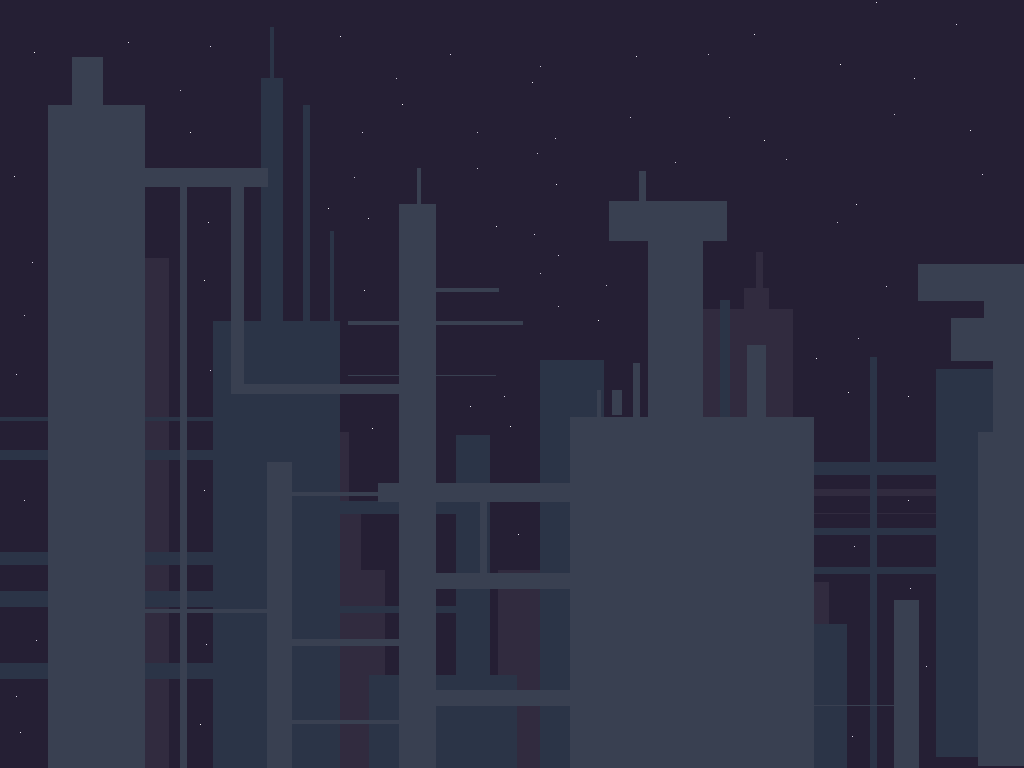
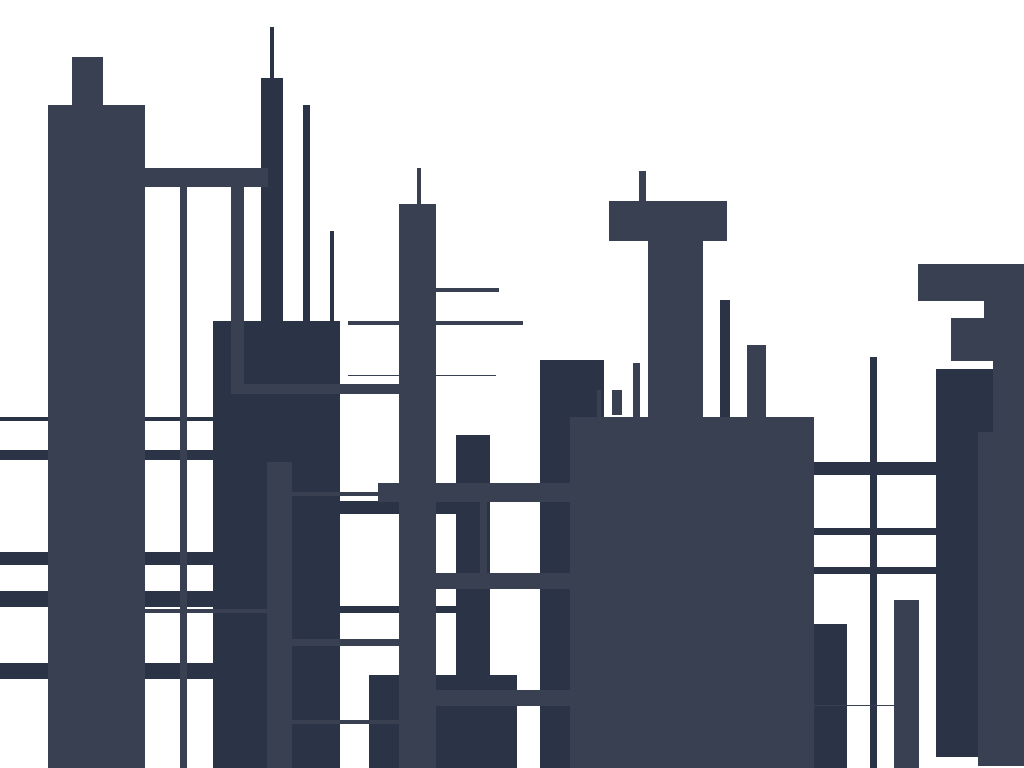
feat: create background system to control background layers and cameras
Context:
- The game can show a background image, but it is fixed and there is not support for parallax effect.

Changes:
- Create BackgroundSystem class to control logic envolving independent background layers

Notes:
- This feature was more of a preparation for implementing the background parallax effect
- I decided to move in this direction instead of focusing on animations for now.
  After implementing the parallax effect I'll return to work on animations

Next:
- Add parallax effect between backgroun layers

diff --git a/cyber_dungeons/game/GameManager.cpp b/cyber_dungeons/game/GameManager.cpp
@@ -1,4 +1,5 @@
 #include "GameManager.h"
+#include "BackgroundSystem.h"
 #include "MainMenu.h"
 #include "GameCamera.h"
 #include "Background.h"
@@ -9,17 +10,24 @@
 #include "Action.h"
 #include <vector>
 
-GameManager::GameManager(GameConfig config, MainMenu mainMenu, Background background, Player player, std::vector<Enemy>* enemies, std::vector<Platform>* platforms, GameCamera camera) :
+GameManager::GameManager
+(
+    GameConfig config, 
+    BackgroundSystem backgroundSystem,
+    MainMenu mainMenu, 
+    Player player, 
+    std::vector<Enemy>* enemies, 
+    std::vector<Platform>* platforms
+) :
     config(config),
-    background(background),
+    backgroundSystem(backgroundSystem),
+    mainMenu(mainMenu),
     player(player), 
     enemies(enemies),
     platforms(platforms), 
-    mainMenu(mainMenu),
     collided_platform_rect(-1, -1, -1, -1),
-    //state(PLAYING),
-    state(MAIN_MENU),
-    camera(camera) {}
+    //state(PLAYING) {}
+    state(MAIN_MENU) {}
 
 void GameManager::input() 
 {
@@ -102,7 +110,7 @@ void GameManager::update() {
     }
     
     camera.update();
-    camera.setCameraPosition(std::floor(player.getRect().x), std::floor(player.getRect().y));
+    camera.setCameraPosition(std::floor(player.getRect().x), std::floor(player.getRect().y), 0, 0);
 }
 
 void GameManager::checkCollisionEntities(Player& player, const Enemy& enemy)
@@ -218,7 +226,7 @@ void GameManager::renderPlayingState()
     BeginDrawing();
         ClearBackground(RAYWHITE);
 
-        background.render();
+        backgroundSystem.render();
         BeginMode2D(camera.getCamera());
             render();
         EndMode2D();
@@ -327,9 +335,11 @@ bool GameManager::resolveHorizontalCollision(Rectangle currRect, Rectangle prevR
     }
 }
 
-void GameManager::destroy() const
+void GameManager::destroy()
 {
-    background.destroy();
+    //gameBackgrounds[Background::Layer::SKY].destroy();
+    //gameBackgrounds[Background::Layer::FAR].destroy();
+
     player.destroy();
 
     for (const auto& enemy : *enemies)

diff --git a/cyber_dungeons/game/GameManager.h b/cyber_dungeons/game/GameManager.h
@@ -1,6 +1,7 @@
 #pragma once
 
 #include "GameConfig.h"
+#include "BackgroundSystem.h"
 #include "MainMenu.h"
 #include "Background.h"
 #include "GameCamera.h"
@@ -8,6 +9,7 @@
 #include "Enemy.h"
 #include "Platform.h"
 #include <vector>
+#include <unordered_map>
 
 class GameManager
 {
@@ -17,12 +19,13 @@ private:
     const int screenHeight = 600;
     const int offscreenDeathTolerance = 20;
     bool isRunning = false;
-    Background background;
+    BackgroundSystem backgroundSystem;
     Player player;
     std::vector <Platform>* platforms;
     std::vector <Enemy>* enemies;
     MainMenu mainMenu;
     GameCamera camera;
+    GameCamera skyCamera;
     Rectangle collided_platform_rect;
     enum State {
         MAIN_MENU,
@@ -33,7 +36,15 @@ private:
     GameManager::State state;
 
 public:
-    GameManager(GameConfig config, MainMenu mainMenu, Background background, Player player, std::vector<Enemy>* enemies, std::vector<Platform>* platforms, GameCamera camera);
+    GameManager
+    (
+        GameConfig config, 
+        BackgroundSystem backgroundSystem,
+        MainMenu mainMenu, 
+        Player player, 
+        std::vector<Enemy>* enemies, 
+        std::vector<Platform>* platforms
+    );
 
     // core
     void input();
@@ -41,7 +52,7 @@ public:
     void render();
     void renderPlayingState();
     void run();
-    void destroy() const;
+    void destroy();
 
     // state
     State getState();

diff --git a/cyber_dungeons/main.cpp b/cyber_dungeons/main.cpp
@@ -3,9 +3,11 @@
 #include <string>
 #include <iterator>
 #include <vector>
+#include <unordered_map>
 #include "GameConfig.h"
 #include "GameManager.h"
 #include "MainMenu.h"
+#include "BackgroundSystem.h"
 #include "GameCamera.h"
 #include "Background.h"
 #include "Player.h"
@@ -96,9 +98,16 @@ int main()
     }
 
     MainMenu mainMenu{ config, options };
+
     GameCamera camera{};
 
-    Background background{config.screenWidth, config.screenHeight};
+    Background backgroundSky = Background{ config.screenWidth, config.screenHeight, "resources/images/sky.png" };
+    Background backgroundFar = Background{ config.screenWidth, config.screenHeight, "resources/images/background.png" };
+
+    BackgroundSystem backgroundSystem;
+
+    backgroundSystem.createLayer(camera, backgroundSky);
+    backgroundSystem.createLayer(camera, backgroundFar);
 
     Player player{ 160, 200, 20, 20, 0, 0 };
 
@@ -120,7 +129,7 @@ int main()
         Platform(700, 300, 180, 20),
         Platform(750, 300, 180, 40),
     };
-    GameManager game{ config, mainMenu, background, player, &enemies, &platforms, camera };
+    GameManager game{ config, backgroundSystem, mainMenu, player, &enemies, &platforms };
     player.getData();
     game.run();
 

diff --git a/cyber_dungeons/background/Background.cpp b/cyber_dungeons/background/Background.cpp
@@ -1,11 +1,12 @@
 #include <Background.h>
 #include <raylib.h>
 
-Background::Background(int screenWidth, int screenHeight) : 
+Background::Background(int screenWidth, int screenHeight, const char* imagePath) : 
 	screenWidth(screenWidth),
-	screenHeight(screenHeight) 
+	screenHeight(screenHeight),
+	imagePath(imagePath)
 	{
-		Image backgroundImage = LoadImage("resources/images/background.png");
+		Image backgroundImage = LoadImage(imagePath);
 		texture = LoadTextureFromImage(backgroundImage);
 		UnloadImage(backgroundImage);
 	}
@@ -15,6 +16,6 @@ void Background::render() const
 	DrawTexture(texture, 0, 0, WHITE);
 }
 
-void Background::destroy() const {
+void Background::destroy() {
 	UnloadTexture(texture);
 }

diff --git a/cyber_dungeons/game/BackgroundSystem.cpp b/cyber_dungeons/game/BackgroundSystem.cpp
@@ -1,0 +1,28 @@
+#include <raylib.h>
+#include "BackgroundSystem.h"
+#include "GameCamera.h"
+#include "Background.h"
+
+BackgroundSystem::BackgroundSystem() {};
+
+void BackgroundSystem::render()
+{
+	for (const auto& layer : layers)
+	{
+		BeginMode2D(layer.camera.getCamera());
+			layer.background.render();
+		EndMode2D();
+	}
+}
+
+void BackgroundSystem::update()
+{
+	// 
+}
+
+void BackgroundSystem::createLayer(GameCamera camera, Background background)
+{
+	Layer layer = Layer{ camera, background };
+	layers.emplace_back(layer);
+}
+

diff --git a/cyber_dungeons/game/BackgroundSystem.h b/cyber_dungeons/game/BackgroundSystem.h
@@ -1,0 +1,29 @@
+#pragma once
+
+#include "Background.h"
+#include "GameCamera.h"
+#include <vector>
+
+class BackgroundSystem
+{
+private:
+	struct Layer {
+		GameCamera camera;
+		Background background;
+
+		Layer(GameCamera camera, Background background) :
+			camera(camera),
+			background(background) {}
+	};
+
+	std::vector<Layer> layers;
+	
+public:
+	BackgroundSystem();
+
+	// core
+	void render();
+	void update();
+
+	void createLayer(GameCamera camera, Background background);
+};

diff --git a/cyber_dungeons/background/Background.h b/cyber_dungeons/background/Background.h
@@ -8,13 +8,13 @@ class Background
 private:
 	int screenWidth;
 	int screenHeight;
+	const char* imagePath;
 
 	Texture2D texture;
-
 public:
-	Background(int screenWidth, int screenHeight);
+	Background(int screenWidth, int screenHeight, const char* imagePath);
 
 	// core
 	void render() const;
-	void destroy() const;
+	void destroy();
 };

diff --git a/cyber_dungeons/game/GameCamera.cpp b/cyber_dungeons/game/GameCamera.cpp
@@ -6,7 +6,7 @@ void GameCamera::update()
 {
 }
 
-void GameCamera::setCameraPosition(float x, float y)
+void GameCamera::setCameraPosition(float x, float y, float offsetX, float offsetY)
 {
 	camera.target.x = x;
 	camera.target.y = y;

diff --git a/cyber_dungeons/game/GameCamera.h b/cyber_dungeons/game/GameCamera.h
@@ -23,5 +23,5 @@ public:
 
 	Camera2D getCamera() const;
 
-	void setCameraPosition(float x, float y);
+	void setCameraPosition(float x, float y, float offsetX, float offsetY);
 };
